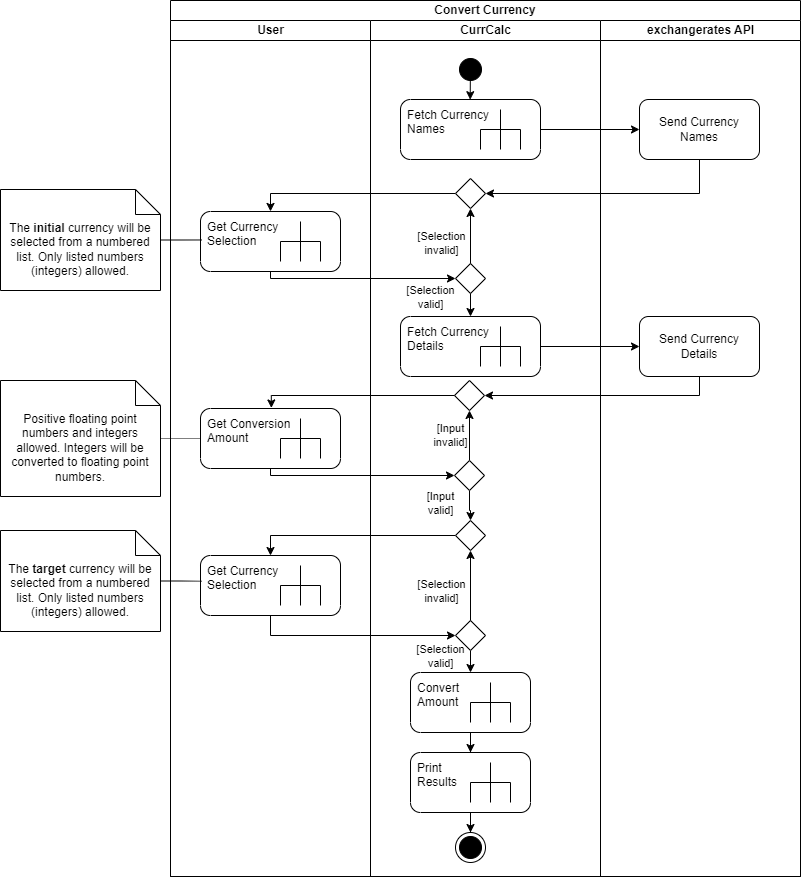
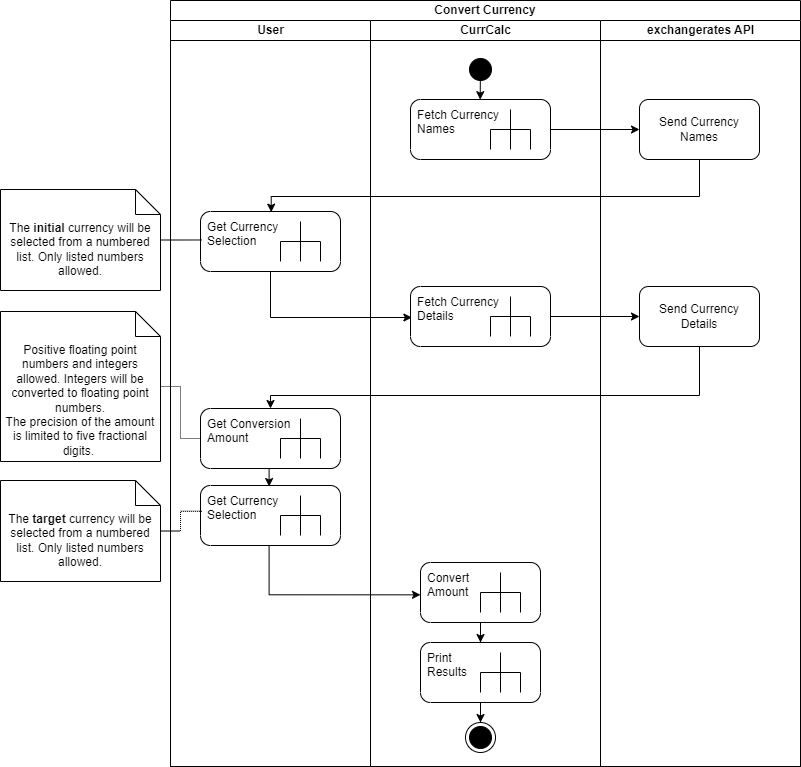
Altered activity diagram, the checks for valid inputs will occur within the corresponding activities and not outside of them, so these were removed, also the use case description and activity diagram description have been altered in regards to those checks

diff --git a/documentation/README.md b/documentation/README.md
@@ -35,6 +35,7 @@ CurrCalc is a C++ program written in C++20. To begin with it will remain strictl
 | -------------- | ------------------------------ | ------------------------------------------------------------------------------------------------------------------------------------------------------ |
 | CurrCalc_NFR_1 | Store API Key Using git-secret | The API key to the exchangereates API should be stored and encrypted in the repository using git-secret, to avoid storing sensitive data in a public online repository. 	  |
 | CurrCalc_NFR_2 | Retry Failed REST Requests 	  | If the data retrieval requests specified in CurrCalc_FR_2 and CurrCalc_FR_4 return with a 500 or 503 status code, they should be retried three more times in intervals of three seconds. If no successful request can be processed after that CurrCalc should terminate.  |
+| CurrCalc_NFR_3 | Keep Precision of Five Fractional Digits For Conversion 	  | For the conversion an amount with a maximum of five fractional digits should be accepted. If the user inputs more than that, the amount should be rounded to five fractional digits.  |
 
 # Architecture
 
@@ -128,7 +129,7 @@ Here is a classical use case description for the Convert Currency use case:
   <tr>
     <td>Alternative Flow(s)</td>
 	<td>
-		In 1.i: The API responds with a status code 500 or 503
+		In 1.i: The API responds with a status code 408, 425, 429, or 500
 		<ol type="1">
 			<li>CurrCalc retries the request three more times in intervals of three seconds
 				<ol type="i">
@@ -141,7 +142,7 @@ Here is a classical use case description for the Convert Currency use case:
 				</ol>
 			</li>
 		</ol><br/>
-		In 1.i: The API responds with a status code other than 200, 500, or 503
+		In 1.i: The API responds with a status code other than 200, 408, 425, 429, or 500
 		<ol type="1">
 			<li>CurrCalc informs the user of the situation and offers possible solutions
 				<ol type="i">
@@ -149,11 +150,20 @@ Here is a classical use case description for the Convert Currency use case:
 				</ol>
 			</li>
 		</ol><br/>
-		In 2.i: The user types in an integer that is not on the list, a decimal number, a character, or a string
+		In 2.i: The user types in an integer that is not on the list, a character, or a string
 		<ol type="1">
 			<li>CurrCalc responds with a prompt to make a selection based on the numbers provided in the list - back to 2 in basic flow</li>
 		</ol><br/>
-		In 3.i: The API responds with a status code 500 or 503
+		In 2.i: The user types in a decimal number, whose whole number part is on the list
+		<ol type="1">
+			<li>The fractional part of the number is truncated - proceed with 2.i.a in basic flow</li>
+		</ol><br/>
+		In 2.i: The user types in a decimal number, whose whole number part is not on the list
+		<ol type="1">
+			<li>The fractional part of the number is truncated</li>
+			<li>CurrCalc responds with a prompt to make a selection based on the numbers provided in the list - back to 2 in basic flow</li>
+		</ol><br/>
+		In 3.i: The API responds with a status code 408, 425, 429, or 500
 		<ol type="1">
 			<li>CurrCalc retries the request three more times in intervals of three seconds
 				<ol type="i">
@@ -166,7 +176,7 @@ Here is a classical use case description for the Convert Currency use case:
 				</ol>
 			</li>
 		</ol><br/>
-		In 3.i: The API responds with a status code other than 200, 500, or 503
+		In 3.i: The API responds with a status code other than 200, 408, 425, 429, or 500
 		<ol type="1">
 			<li>CurrCalc informs the user of the situation and offers possible solutions
 				<ol type="i">
@@ -182,10 +192,19 @@ Here is a classical use case description for the Convert Currency use case:
 		<ol type="1">
 			<li>CurrCalc responds with a prompt to type in an unsigned number for the sum - back to 4.i in basic flow</li>
 		</ol><br/>
-		In 5.i: The user types in an integer that is not on the list, a decimal number, a character, or a string
+		In 5.i: The user types in an integer that is not on the list, a character, or a string
 		<ol type="1">
 			<li>CurrCalc responds with a prompt to make a selection based on the numbers provided in the list - back to 5 in basic flow</li>
-		</ol>
+		</ol><br/>
+		In 5.i: The user types in a decimal number, whose whole number part is on the list
+		<ol type="1">
+			<li>The fractional part of the number is truncated - proceed with 5.i.a in basic flow</li>
+		</ol><br/>
+		In 5.i: The user types in a decimal number, whose whole number part is not on the list
+		<ol type="1">
+			<li>The fractional part of the number is truncated</li>
+			<li>CurrCalc responds with a prompt to make a selection based on the numbers provided in the list - back to 5 in basic flow</li>
+		</ol><br/>
 	</td>
 </table>
 
@@ -203,7 +222,9 @@ And then there is the ExchangeratesApiClient class. As its name states, it repre
 ![CurrCalc Activity Diagram for Convert Currency](https://github.com/DusDus3428/CPP_CurrCalc/blob/feature/01_design/documentation/images/diagrams/04_CurrCalc_ActivityDiagram_ConvertCurrency.png "CurrCalc Activity Diagram for Convert Currency")
 
 The activity diagram above showcases the main flow of the program.<br/> 
-Once CurrCalc is started, the program will send a REST request to the exchangerates API to retrieve the list of the names of available currencies. Once the API sends this to CurrCalc, the user must choose one of the currencies from the numbered list to use for the initial currency. If the user decides to make an input that is not one of the numbers on the list, they will be prompted to do so again until a valid selection has been made.<br/>
-After the selection has been made, CurrCalc uses it to request the full details of the currency, including the exchangerates for the other currencies. Once the API sends these to CurrCalc, the user is prompted to type in the amount that is to be converted. If the user types in something other than a positive integer or positive floating point number, they will be prompted to do so again until a valid number has been provided. Side note: positive integer numbers are converted into floating point numbers.<br/>
-Next, the user must choose the target currency from a numbered list. This list is gathered from the initial currency's exchange rates. If the user decides to make a selection that is not one of the numbers on the list, they will be prompted to do so again until a valid selection has been made.<br/>
+Once CurrCalc is started, the program will send a REST request to the exchangerates API to retrieve the list of the names of available currencies. Once the API sends this to CurrCalc, the user must choose one of the currencies from the numbered list to use for the initial currency. If the user decides to make an input that is not one of the numbers on the list, they will be prompted to do so again until a valid selection has been made. This check is made within the Get Currency Selection activity.<br/>
+After the selection has been made, CurrCalc uses it to request the full details of the currency, including the exchangerates for the other currencies. Once the API sends these to CurrCalc, the user is prompted to type in the amount that is to be converted. If the user types in something other than a positive integer or positive floating point number, they will be prompted to do so again until a valid number has been provided. Side note: positive integer numbers are converted into floating point numbers. This check is made within the Get Conversion Amount activity.<br/>
+Next, the user must choose the target currency from a numbered list. The activity Get Currency Selection is reused here. The only difference is that the numbered list is gathered from the initial currency's exchange rates. This is done for two reasons: on one hand, we do not know if the API has all the exchange rates for the selected initial currency, and on the other, we do not need to include the initial currency.<br/>
 Once this is done, the specified amount will be converted from the initial currency into the target one and the results will be printed to the console. Then the CurrCalc program is terminated. 
+
+Please note that this is a very simplified activity diagram that displays the rough ideal flow of the program. All the possibilities of program termination are not depicted. However, they are described in the use case table **[here](#use-cases)**.
